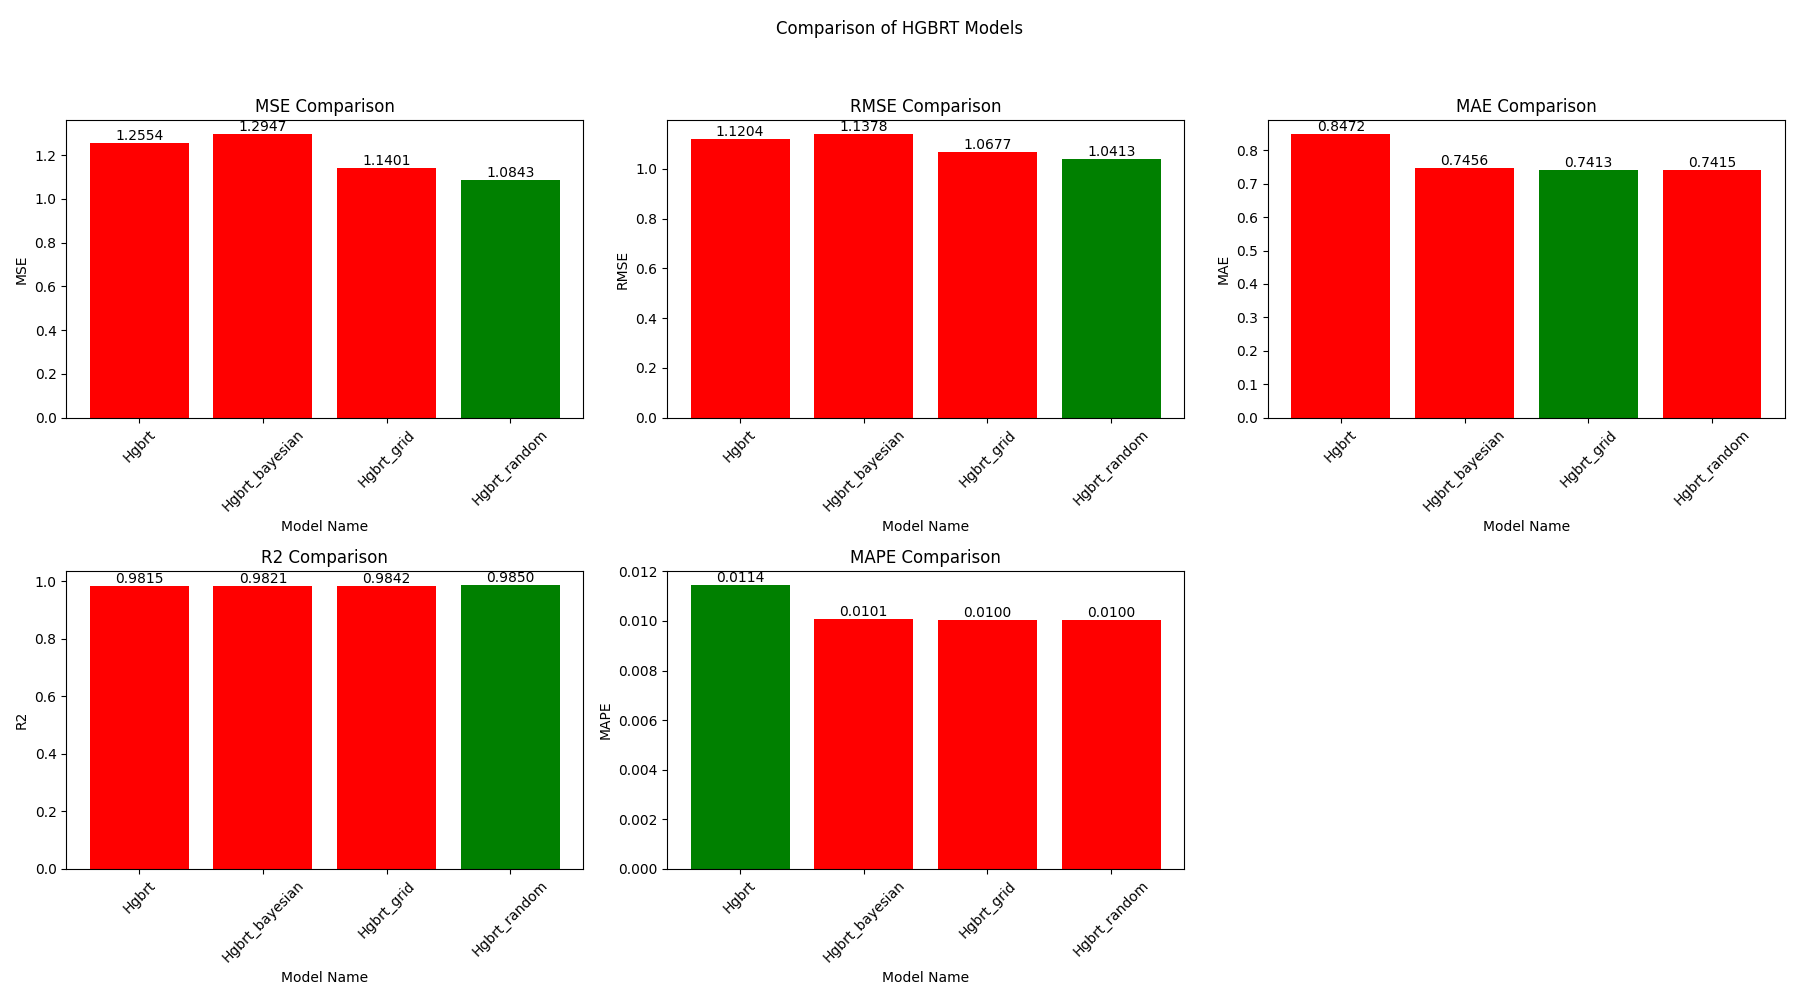
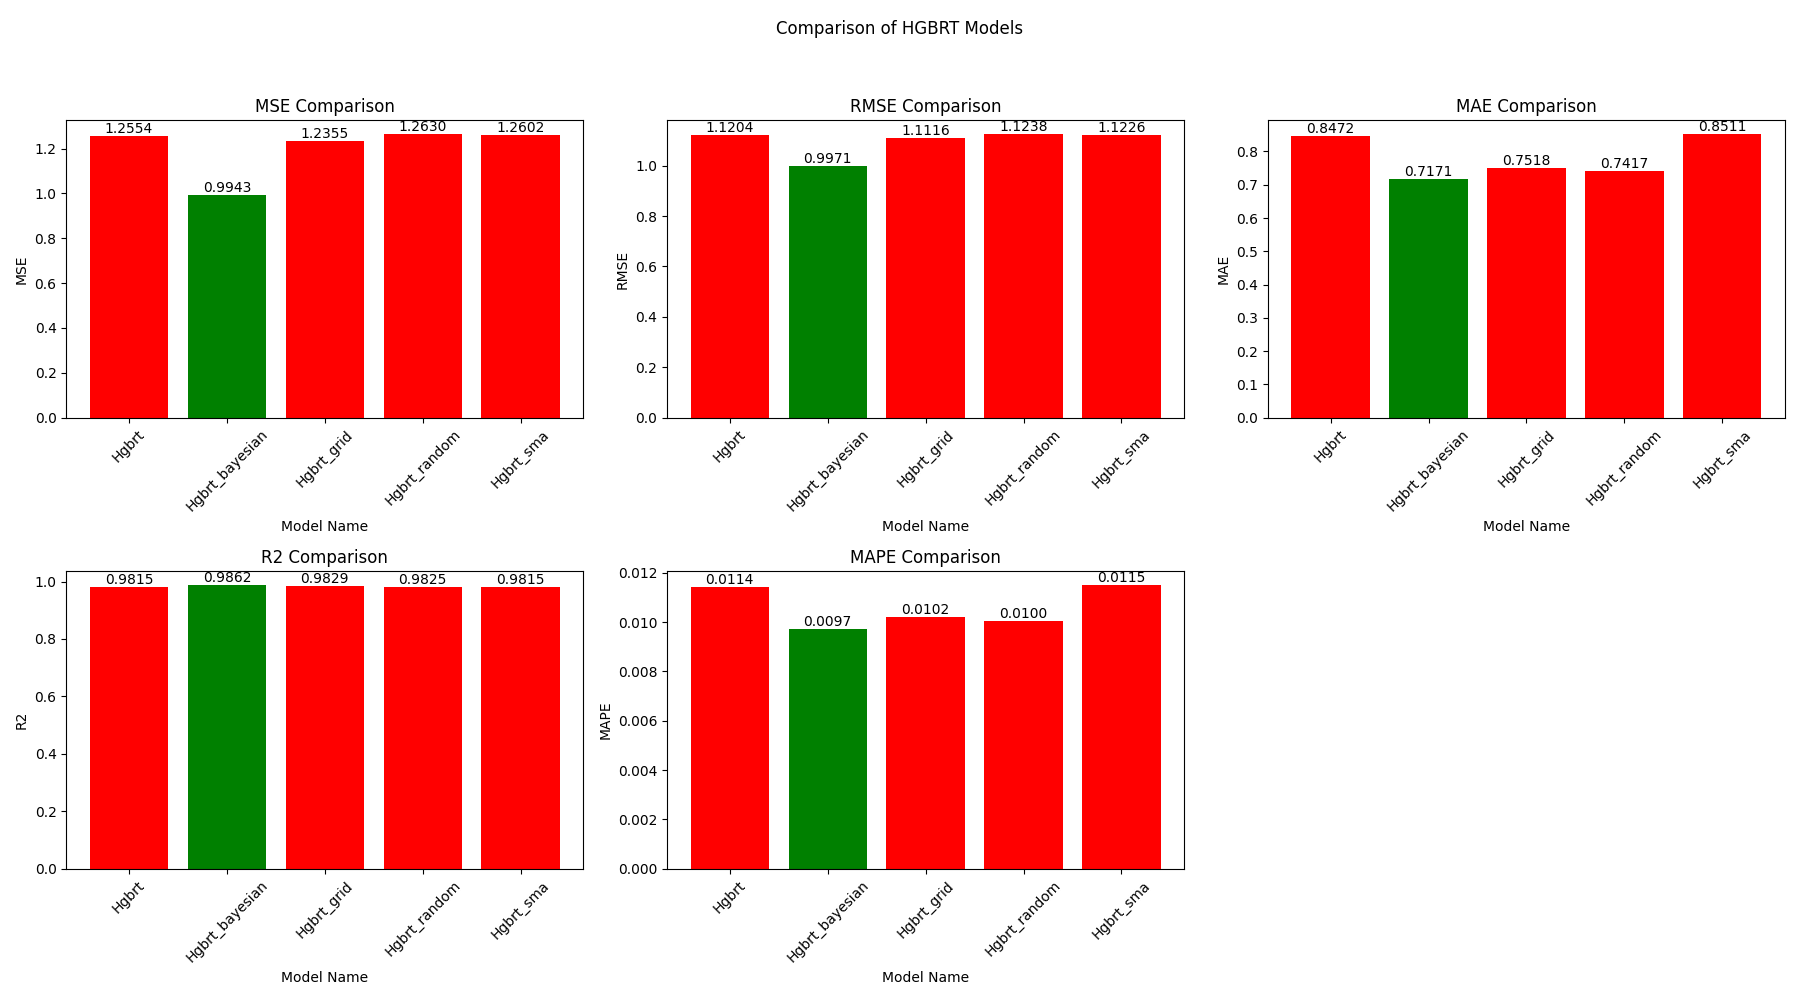
added sma , ran once and got values

diff --git a/src/sma.py b/src/sma.py
@@ -1,0 +1,152 @@
+import pandas as pd
+import numpy as np
+from sklearn.model_selection import train_test_split
+from sklearn.ensemble import HistGradientBoostingRegressor
+from sklearn.metrics import mean_squared_error, r2_score, mean_absolute_percentage_error, mean_absolute_error
+import os 
+
+# Load the dataset from a CSV file
+data = pd.read_csv("../data/augmented_datasett.csv")
+
+# Define features and target
+X = data[['Application_Type', 'Signal_Strength', 'Latency', 'Required_Bandwidth', 'Allocated_Bandwidth']]
+y = data['Resource_Allocation']
+
+# Split the data into training and testing sets
+X_train, X_test, y_train, y_test = train_test_split(X, y, test_size=0.2, random_state=42)
+
+# Function to calculate metrics
+def calculate_metrics(y_test, y_pred):
+    mse = mean_squared_error(y_test, y_pred)
+    rmse = np.sqrt(mse)
+    r2 = r2_score(y_test, y_pred)
+    mape = mean_absolute_percentage_error(y_test, y_pred)
+    mae = mean_absolute_error(y_test, y_pred)
+    return mse, rmse, mae, r2, mape
+
+# Function to append metrics to CSV
+def append_metrics_to_csv(model_name, metrics, model_category='Boosting Models'):
+    # Define the order of columns as per your requirement
+    column_order = ['Model Name', 'Model Category', 'MSE', 'RMSE', 'MAE', 'R2', 'MAPE']
+    
+    # Create a dictionary with correct keys and values
+    metrics_dict = {
+        'Model Name': [model_name],
+        'Model Category': [model_category],
+        'MSE': [metrics[0]],
+        'RMSE': [metrics[1]],
+        'MAE': [metrics[2]],
+        'R2': [metrics[3]],
+        'MAPE': [metrics[4]],
+    }
+    
+    # Convert dictionary to DataFrame
+    df_metrics = pd.DataFrame(metrics_dict)
+    
+    # Append DataFrame to CSV
+    file_path = "../data/model_performance_metrics.csv"
+    if not os.path.isfile(file_path):
+        df_metrics.to_csv(file_path, mode='w', header=True, index=False, columns=column_order)
+    else:
+        df_metrics.to_csv(file_path, mode='a', header=False, index=False, columns=column_order)
+
+# Define the bounds for SMA optimization
+# Define the bounds for SMA optimization
+bounds = np.array([
+    [0.001, 0.2],    # learning_rate: Generally smaller learning rates are better for gradient boosting.
+    [100, 1000],     # max_iter: Allow for a higher number of iterations to ensure model convergence.
+    [10, 500],       # max_leaf_nodes: More flexibility in the number of leaf nodes for different levels of model complexity.
+    [3, 30],         # max_depth: Ranging depth to control model overfitting.
+    [1, 50],         # min_samples_leaf: Control over minimum samples in a leaf node to avoid overfitting.
+    [0, 10]          # l2_regularization: Higher range for L2 regularization to test the effects on model performance.
+])
+
+
+# Slime Mould Algorithm (SMA)
+def initialize_population(n_agents, dim, bounds):
+    population = np.random.rand(n_agents, dim) * (bounds[:, 1] - bounds[:, 0]) + bounds[:, 0]
+    return population
+
+def fitness_function(model, X_train, y_train, X_test, y_test, params):
+    model.set_params(**params)
+    model.fit(X_train, y_train)
+    y_pred = model.predict(X_test)
+    mse = mean_squared_error(y_test, y_pred)
+    return mse
+
+def slime_mould_algorithm(model, X_train, y_train, X_test, y_test, bounds, n_agents=30, max_iter=100):
+    dim = bounds.shape[0]
+    population = initialize_population(n_agents, dim, bounds)
+    fitness = np.zeros(n_agents)
+    best_agent = np.zeros(dim)
+    best_fitness = float('inf')
+
+    for agent in range(n_agents):
+        params = {
+            'learning_rate': population[agent][0],
+            'max_iter': int(population[agent][1]),
+            'max_leaf_nodes': int(population[agent][2]),
+            'max_depth': int(population[agent][3]),
+            'min_samples_leaf': int(population[agent][4]),
+            'l2_regularization': population[agent][5]
+        }
+        fitness[agent] = fitness_function(model, X_train, y_train, X_test, y_test, params)
+        
+        if fitness[agent] < best_fitness:
+            best_fitness = fitness[agent]
+            best_agent = population[agent]
+
+    for t in range(max_iter):
+        for agent in range(n_agents):
+            # Update positions based on SMA rules
+            population[agent] = update_position(population[agent], best_agent, fitness, t, max_iter, bounds)
+            params = {
+                'learning_rate': population[agent][0],
+                'max_iter': int(population[agent][1]),
+                'max_leaf_nodes': int(population[agent][2]),
+                'max_depth': int(population[agent][3]),
+                'min_samples_leaf': int(population[agent][4]),
+                'l2_regularization': population[agent][5]
+            }
+            fitness[agent] = fitness_function(model, X_train, y_train, X_test, y_test, params)
+            
+            if fitness[agent] < best_fitness:
+                best_fitness = fitness[agent]
+                best_agent = population[agent]
+        
+    return best_agent, best_fitness
+
+def update_position(agent, best_agent, fitness, t, max_iter, bounds):
+    # SMA-specific position update rules go here (simplified example)
+    b = 1 - t / max_iter
+    d = 2 * (np.random.rand() - 0.5)
+    new_agent = agent + d * b * (best_agent - agent)
+
+    # Ensure the new position is within bounds
+    new_agent = np.clip(new_agent, bounds[:, 0], bounds[:, 1])
+    return new_agent
+
+# Define the HGBRT model
+model = HistGradientBoostingRegressor()
+
+# Run the SMA optimization
+best_agent, best_fitness = slime_mould_algorithm(model, X_train, y_train, X_test, y_test, bounds, n_agents=30, max_iter=100)
+
+# Use the best parameters found by SMA to train the final model
+best_params = {
+    'learning_rate': best_agent[0],
+    'max_iter': int(best_agent[1]),
+    'max_leaf_nodes': int(best_agent[2]),
+    'max_depth': int(best_agent[3]),
+    'min_samples_leaf': int(best_agent[4]),
+    'l2_regularization': best_agent[5]
+}
+model.set_params(**best_params)
+model.fit(X_train, y_train)
+
+# Predict and calculate metrics
+y_pred_sma = model.predict(X_test)
+metrics_sma = calculate_metrics(y_test, y_pred_sma)
+
+# Append SMA results to CSV
+append_metrics_to_csv('Hgbrt_sma', metrics_sma)

diff --git a/src/compare.py b/src/compare.py
@@ -22,7 +22,7 @@ for idx, metric in enumerate(metrics):
         ax = axes[idx]
         
         # Determine the best value for each metric type
-        if metric in ['MSE', 'RMSE', 'MAE']:
+        if metric in ['MSE', 'RMSE', 'MAE' , 'MAPE']:
             best_value = hgbrt_df[metric].min()
             colors = ['green' if value == best_value else 'red' for value in hgbrt_df[metric]]
         else:  # For 'R2', 'MAPE'
